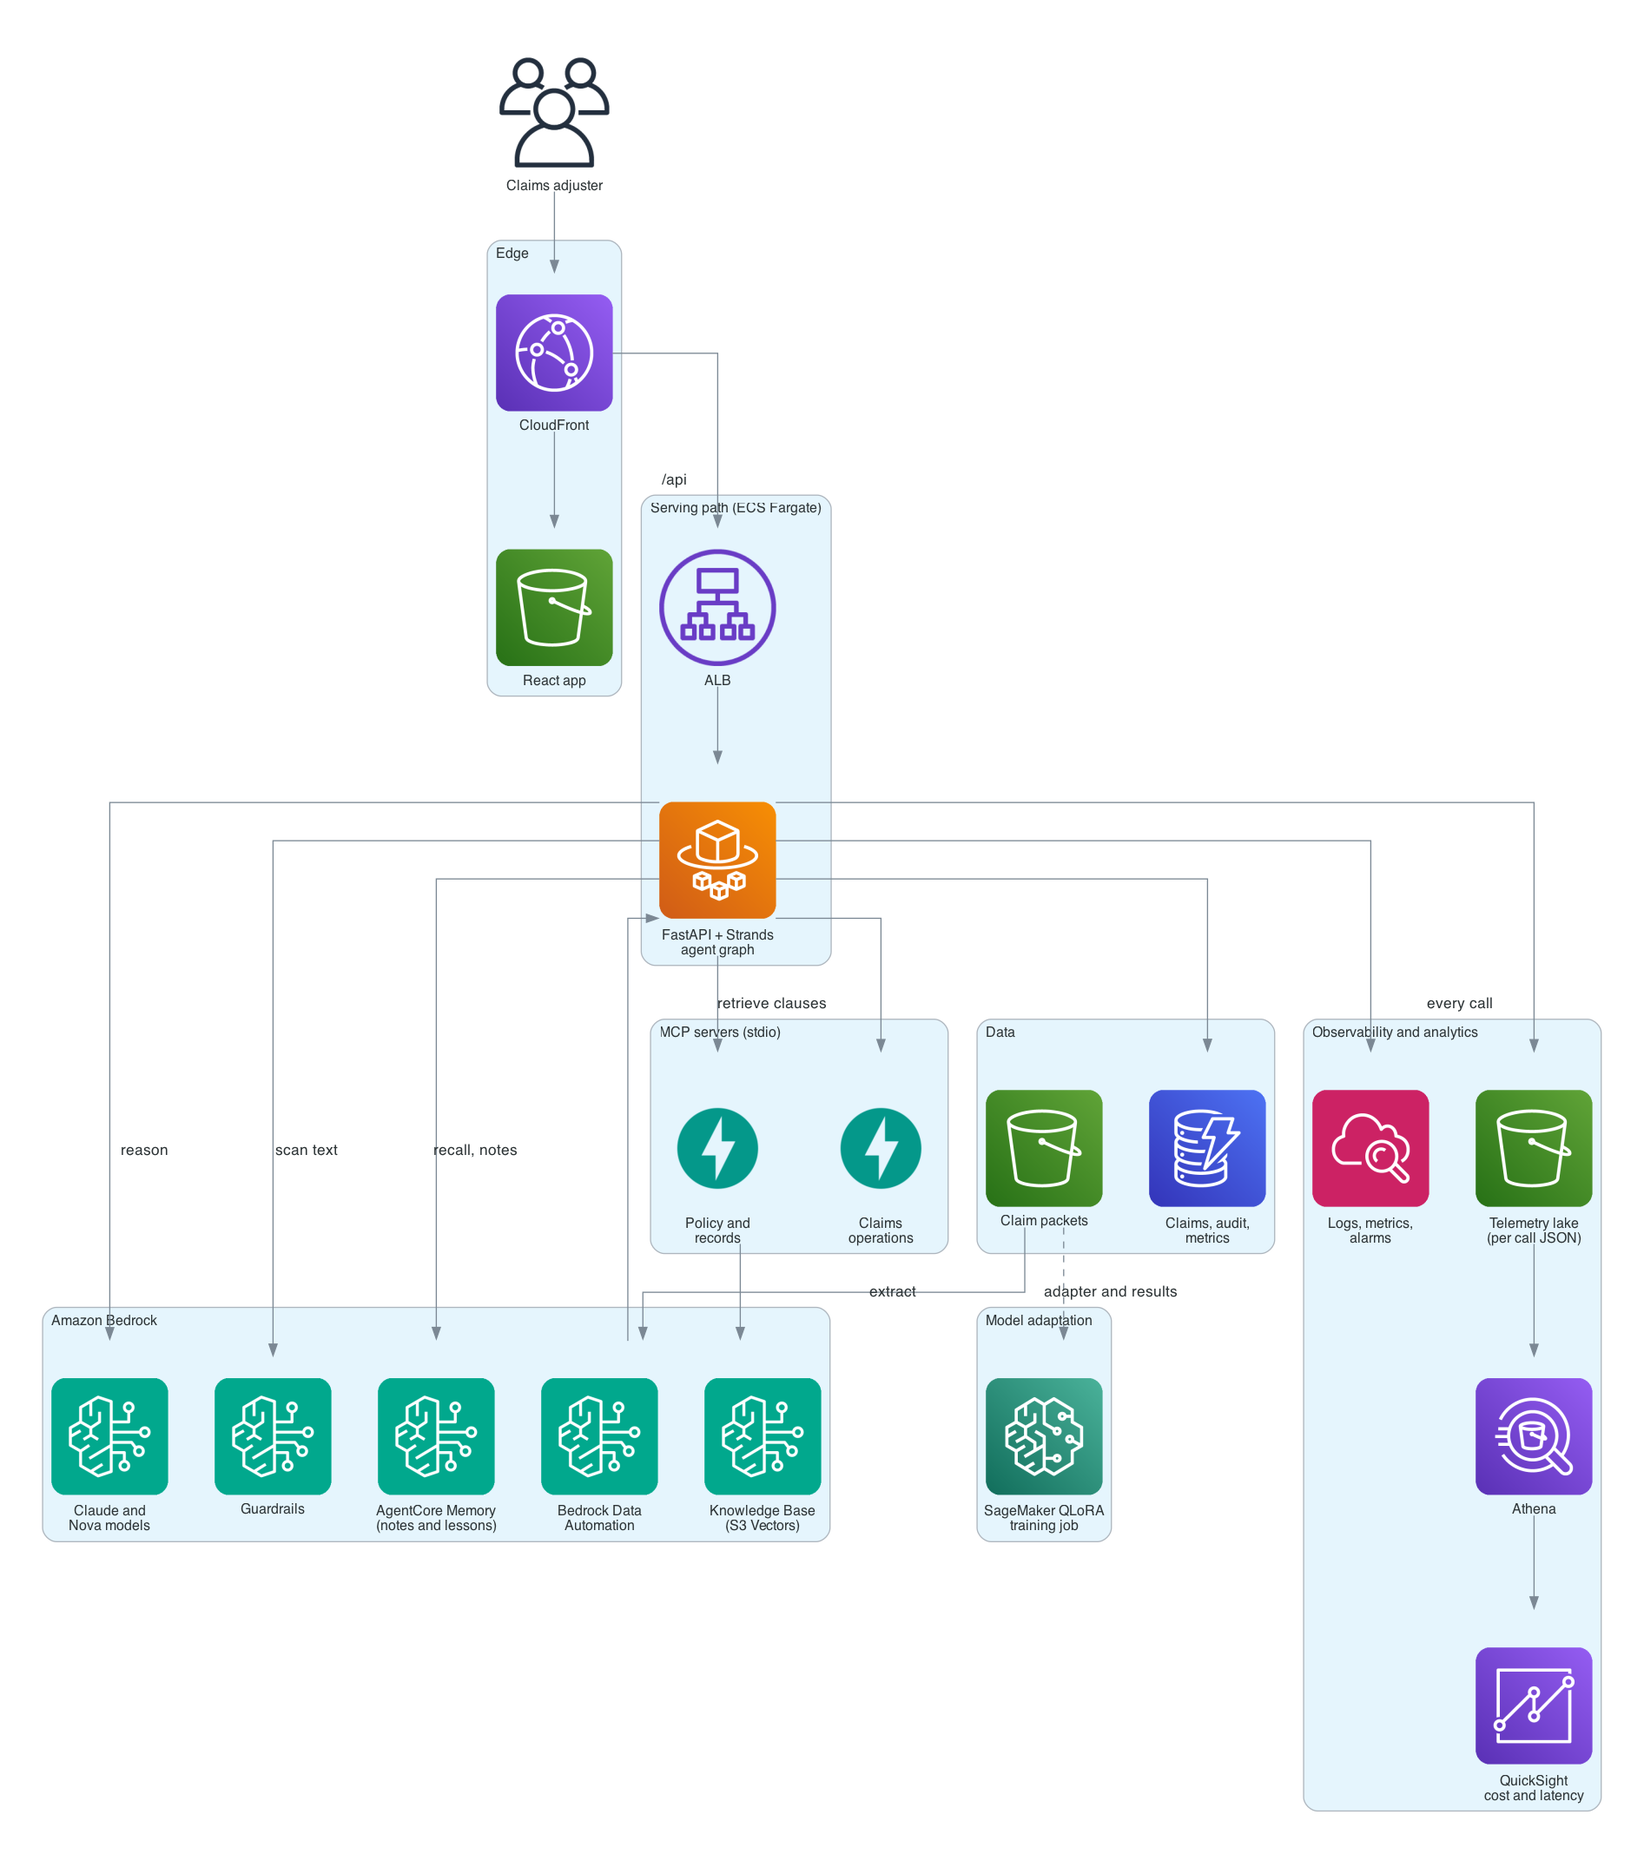
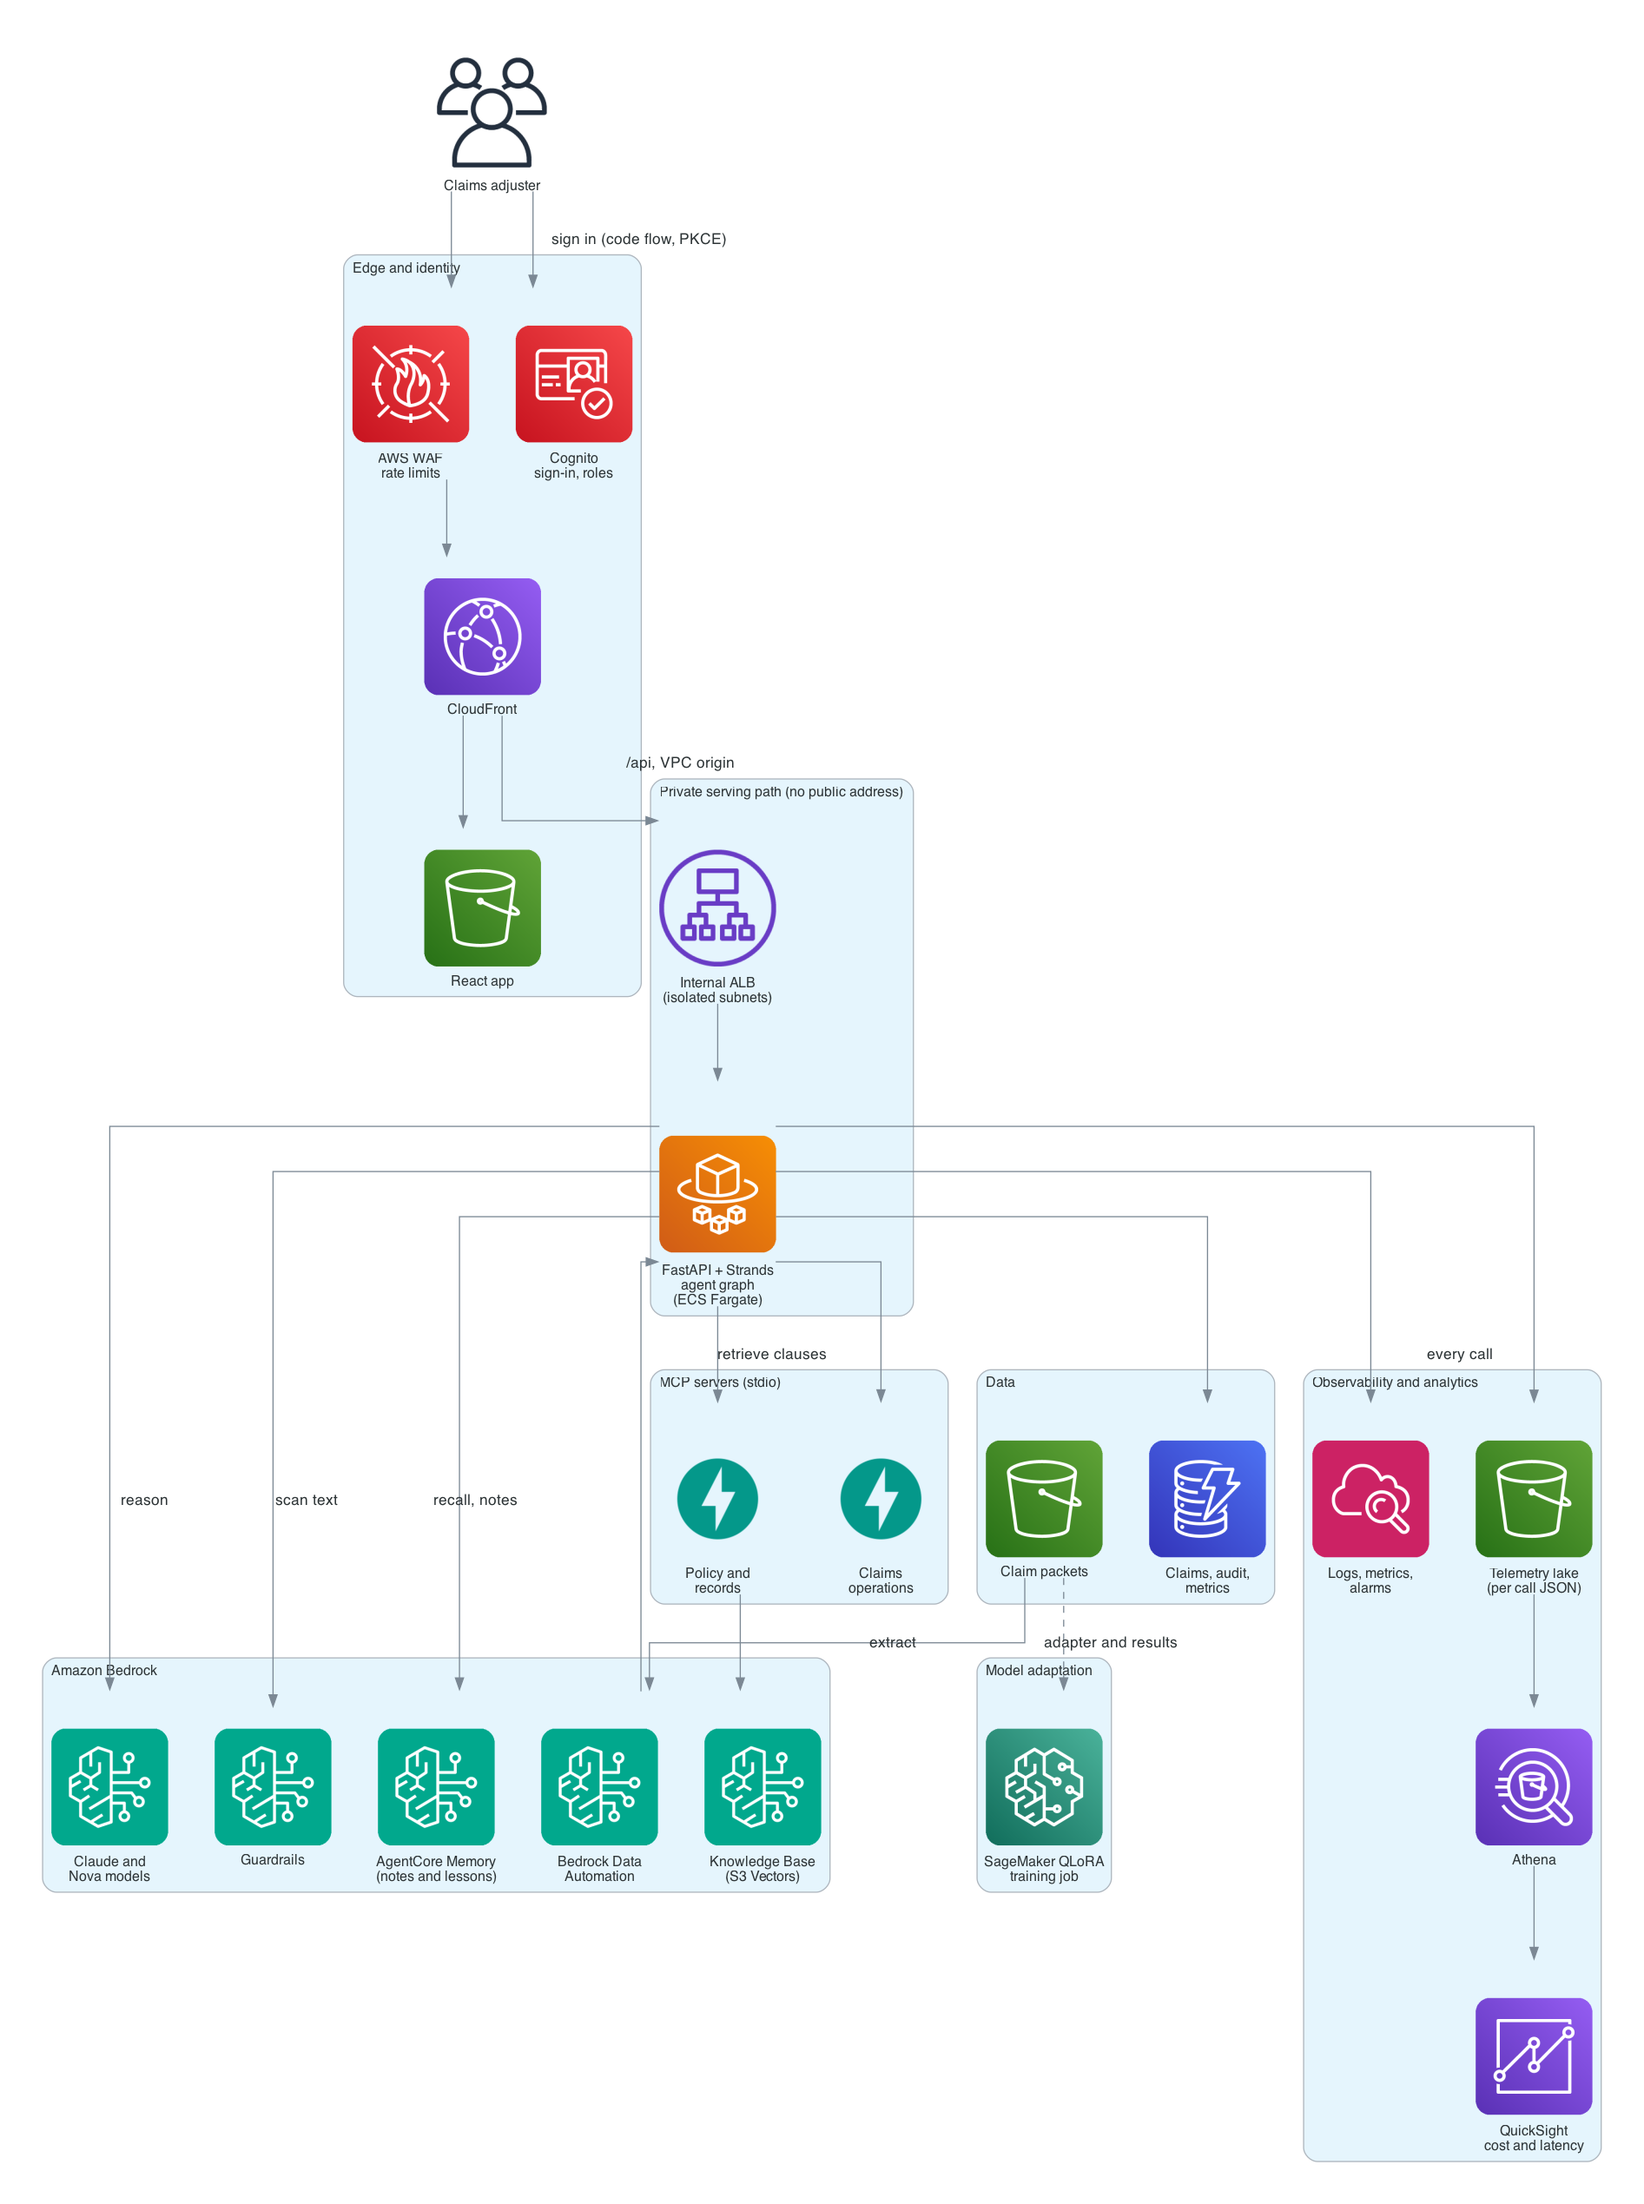
Show Cognito, WAF and the private serving path in the AWS architecture diagram

Changed region(s): [[0.0, 0.0309, 0.9974, 0.9892], [0.2493, 0.6183, 0.2805, 0.6492]]

diff --git a/docs/diagrams/generate.py b/docs/diagrams/generate.py
@@ -12,7 +12,7 @@ from diagrams.aws.devtools import Codebuild
 from diagrams.aws.management import Cloudwatch
 from diagrams.aws.ml import Bedrock, Sagemaker
 from diagrams.aws.network import ALB, CloudFront
-from diagrams.aws.security import IAM
+from diagrams.aws.security import IAM, WAF, Cognito
 from diagrams.aws.storage import S3
 from diagrams.onprem.ci import GithubActions
 from diagrams.onprem.client import Users
@@ -28,12 +28,14 @@ NODE = {"fontsize": "12", "fontname": "Helvetica"}
 def aws_architecture() -> None:
     with Diagram("", filename=str(OUT / "aws_architecture"), show=False, direction="TB", graph_attr=GRAPH, node_attr=NODE, outformat="png"):
         adjuster = Users("Claims adjuster")
-        with Cluster("Edge"):
+        with Cluster("Edge and identity"):
+            waf = WAF("AWS WAF\nrate limits")
             cdn = CloudFront("CloudFront")
             site = S3("React app")
-        with Cluster("Serving path (ECS Fargate)"):
-            alb = ALB("ALB")
-            api = Fargate("FastAPI + Strands\nagent graph")
+            cognito = Cognito("Cognito\nsign-in, roles")
+        with Cluster("Private serving path (no public address)"):
+            alb = ALB("Internal ALB\n(isolated subnets)")
+            api = Fargate("FastAPI + Strands\nagent graph\n(ECS Fargate)")
         with Cluster("Amazon Bedrock"):
             models = Bedrock("Claude and\nNova models")
             guard = Bedrock("Guardrails")
@@ -53,8 +55,9 @@ def aws_architecture() -> None:
             qs = Quicksight("QuickSight\ncost and latency")
         with Cluster("Model adaptation"):
             sm = Sagemaker("SageMaker QLoRA\ntraining job")
-        adjuster >> cdn >> site
-        cdn >> Edge(label="/api") >> alb >> api
+        adjuster >> Edge(label="sign in (code flow, PKCE)") >> cognito
+        adjuster >> waf >> cdn >> site
+        cdn >> Edge(label="/api, VPC origin") >> alb >> api
         api >> Edge(label="reason") >> models
         api >> Edge(label="scan text") >> guard
         api >> Edge(label="retrieve clauses") >> mcp1 >> kb
